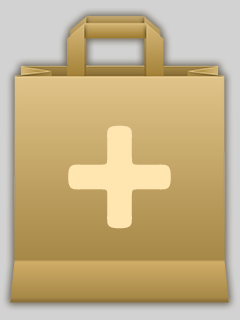
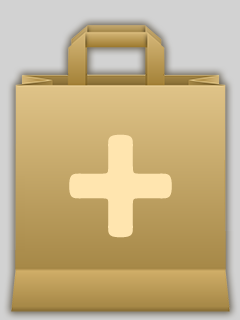
drag and drop ok

Changed region(s): [[0.0292, 0.0312, 0.9917, 1.0], [0.2625, 0.375, 0.7292, 0.75]]

diff --git a/css/style.css b/css/style.css
@@ -124,12 +124,36 @@ article.information h4 {
 }
 
 #main-menu article figure {
+	display: flex;
+	justify-content: center;
+	align-items: center;
 	margin-right: 1em;
 	float: left;
 	width: 160px;
 	height: 120px;
+	background: url("../images/sample.jpg");
 	background-color: white;
 	background-size: cover;
+}
+
+
+#main-menu article figure:hover {
+	cursor: pointer;
+}
+
+
+#main-menu article figure p {
+	background: rgba(255,255,255,0.5);
+	border-radius: 1em;
+	width: 100px;
+	padding: 0.5em;
+	text-align: center;
+	text-shadow: 0 0 2px white;
+	visibility: hidden;
+}
+
+#main-menu article figure:hover p {
+	visibility: visible;
 }
 
 #main-menu article ul li {
@@ -141,14 +165,19 @@ article.information h4 {
 	border-bottom: 0;
 }
 
-#main-menu article img {
+#main-menu article button {
+	background: url("../images/bag.png");
+	background-size: cover;
+	border: 0;
+	outline: none;
 	float: right;
+	width: 60px;
 	height: 80px;
-	opacity: 0.8;
-	margin: 1.5em 2em 1em 1em;
+	opacity: 0.5;
+	margin: 1.5em;
 }
 
-#main-menu article img:hover {
+#main-menu article button:hover {
 	cursor: pointer;
 	opacity: 1;
 
@@ -159,7 +188,7 @@ article.information h4 {
 	margin-bottom: 0.5em;
 }
 
-#main-menu article h3 span:hover {
+#main-menu article h3:hover {
 	cursor: pointer;
 }
 

diff --git a/application/views/orders/menu.php b/application/views/orders/menu.php
@@ -24,10 +24,9 @@
 					$('#modal').prop('open', false);
 				}
 			});
-
-			$(document).on('click', '#main-menu article h3 span', function(){
+			$(document).on('click', '#main-menu article h3', function(){
 				$('#modal .header').text($(this).text());
-				load_reviews($(this).attr('id'));
+				load_reviews($(this).attr('dish_code'));
 				$('#modal').prop('open', true);
 			});
 			$(document).on('click', '#category-menu li', function(){
@@ -36,13 +35,14 @@
 				$('#main-menu article').hide();
 				$('#' + $(this).attr('href')).show();
 			});
-			$(document).on('click', '#main-menu article img', function(){
+			$(document).on('click', '#main-menu article button', function(){
 				add_item($(this).attr('dish_code'));
 			});
 
 			$(document).on('click', '#bag .remove', function(){
-				remove_item($(this).attr('id'));
+				remove_item($(this).attr('row_id'));
 			});
+
 
 			function add_item(dish_code) {
 				$.when($.ajax("<?php echo base_url('orders/add_item_to_bag/') ?>" + dish_code)).then(function(data, textStatus, jqXHR ) {
@@ -55,8 +55,6 @@
 					update_bag();
 				});
 			};
-
-
 			function load_reviews(dish_code) {
 				$('#modal .main').empty();
 				$.getJSON("<?php echo base_url('reviews/get_reviews_by_dish/') ?>" + dish_code, function(data){
@@ -80,9 +78,11 @@
 				<ul>
 				<?php foreach ($dishes as $dish): if ($dish->cat_slug == $category->cat_slug): ?>
 					<li>
-						<figure style="background: url('<?php echo base_url('images/sample.jpg') ?>')" alt="<?php echo $dish->name ?>"></figure>
-						<img dish_code="<?php echo $dish->dish_code ?>" src="<?php echo base_url('images/bag.png') ?>">
-						<h3><span id="<?php echo $dish->dish_code ?>"><?php echo ltrim($dish->dish_code, '0') . '. ' . $dish->name ?></span></h3>
+						<figure id="<?php echo $dish->dish_code ?>" draggable="true" ondragstart="drag(event)" style="background-image: url('<?php echo base_url('images/sample.jpg') ?>'">
+							<p>Drag me to your bag please!</p>
+						</figure>
+						<button dish_code="<?php echo $dish->dish_code ?>"></button>
+						<h3 dish_code="<?php echo $dish->dish_code ?>"><?php echo ltrim($dish->dish_code, '0') . '. ' . $dish->name ?></h3>
 						<p><?php echo $dish->description ?></p>
 					</li>
 				<?php endif; endforeach ?>

diff --git a/application/views/orders/detail.php b/application/views/orders/detail.php
@@ -2,27 +2,41 @@
 			$(document).ready(function(){
 				update_bag();
 			});
+
+			function allowDrop(event) {
+				event.preventDefault();
+			}
+
+			function drag(event) {
+				event.dataTransfer.setData("id", event.target.id);
+			}
+
+			function drop(event) {
+				var data = event.dataTransfer.getData("id");
+				add_item(data);
+				event.preventDefault();
+			}
 			function update_bag() {
 				$('#bag').empty();
 				total = 0;
-				// $('#bag').append('<tr><th>&nbsp;</th><th>Name</th><th>Price</th><th>Sub</th></tr>');
 				$.getJSON("<?php echo base_url('orders/get_items_from_bag') ?>", function(data){
 					$.each(data, function(i, item){
 						total += item.subtotal;
 						$('#bag').append('<tr>');
-						$('#bag').append('<td><span class="remove" id="' + item.rowid + '">&#10060;</span></td>');
+						$('#bag').append('<td><span class="remove" row_id="' + item.rowid + '">&#10060;</span></td>');
 						$('#bag').append('<td>' + item.qty + ' x <strong>' + item.id + '. ' + item.name + '</strong></td>');
-						// $('#bag').append('<td style="text-align: right">$' + item.price.toFixed(2) + '</td>');
-						// $('#bag').append('<td style="text-align: right"><strong>' + item.qty + '</strong></td>');
 						$('#bag').append('<td style="text-align: right">$' + item.subtotal.toFixed(2) + '</td>');
 						$('#bag').append('</tr>');
 					});
 					$('#bag').append('<tr><td class="total" colspan="3">Total Amount: <strong>$' + total.toFixed(2) + '</strong></td></tr>');
 				});
 			};
+			function place_order() {
+				alert('placeing order');
+			};
 		</script>
-		<aside id="order-detail">
+		<aside id="order-detail" ondrop="drop(event)" ondragover="allowDrop(event)">
 			<h2>Order Detail</h2>
 			<table id="bag"></table>
-			<button type="button">Place Your Order</button>
+			<button type="button" onclick="place_order();">Place Your Order</button>
 		</aside>
